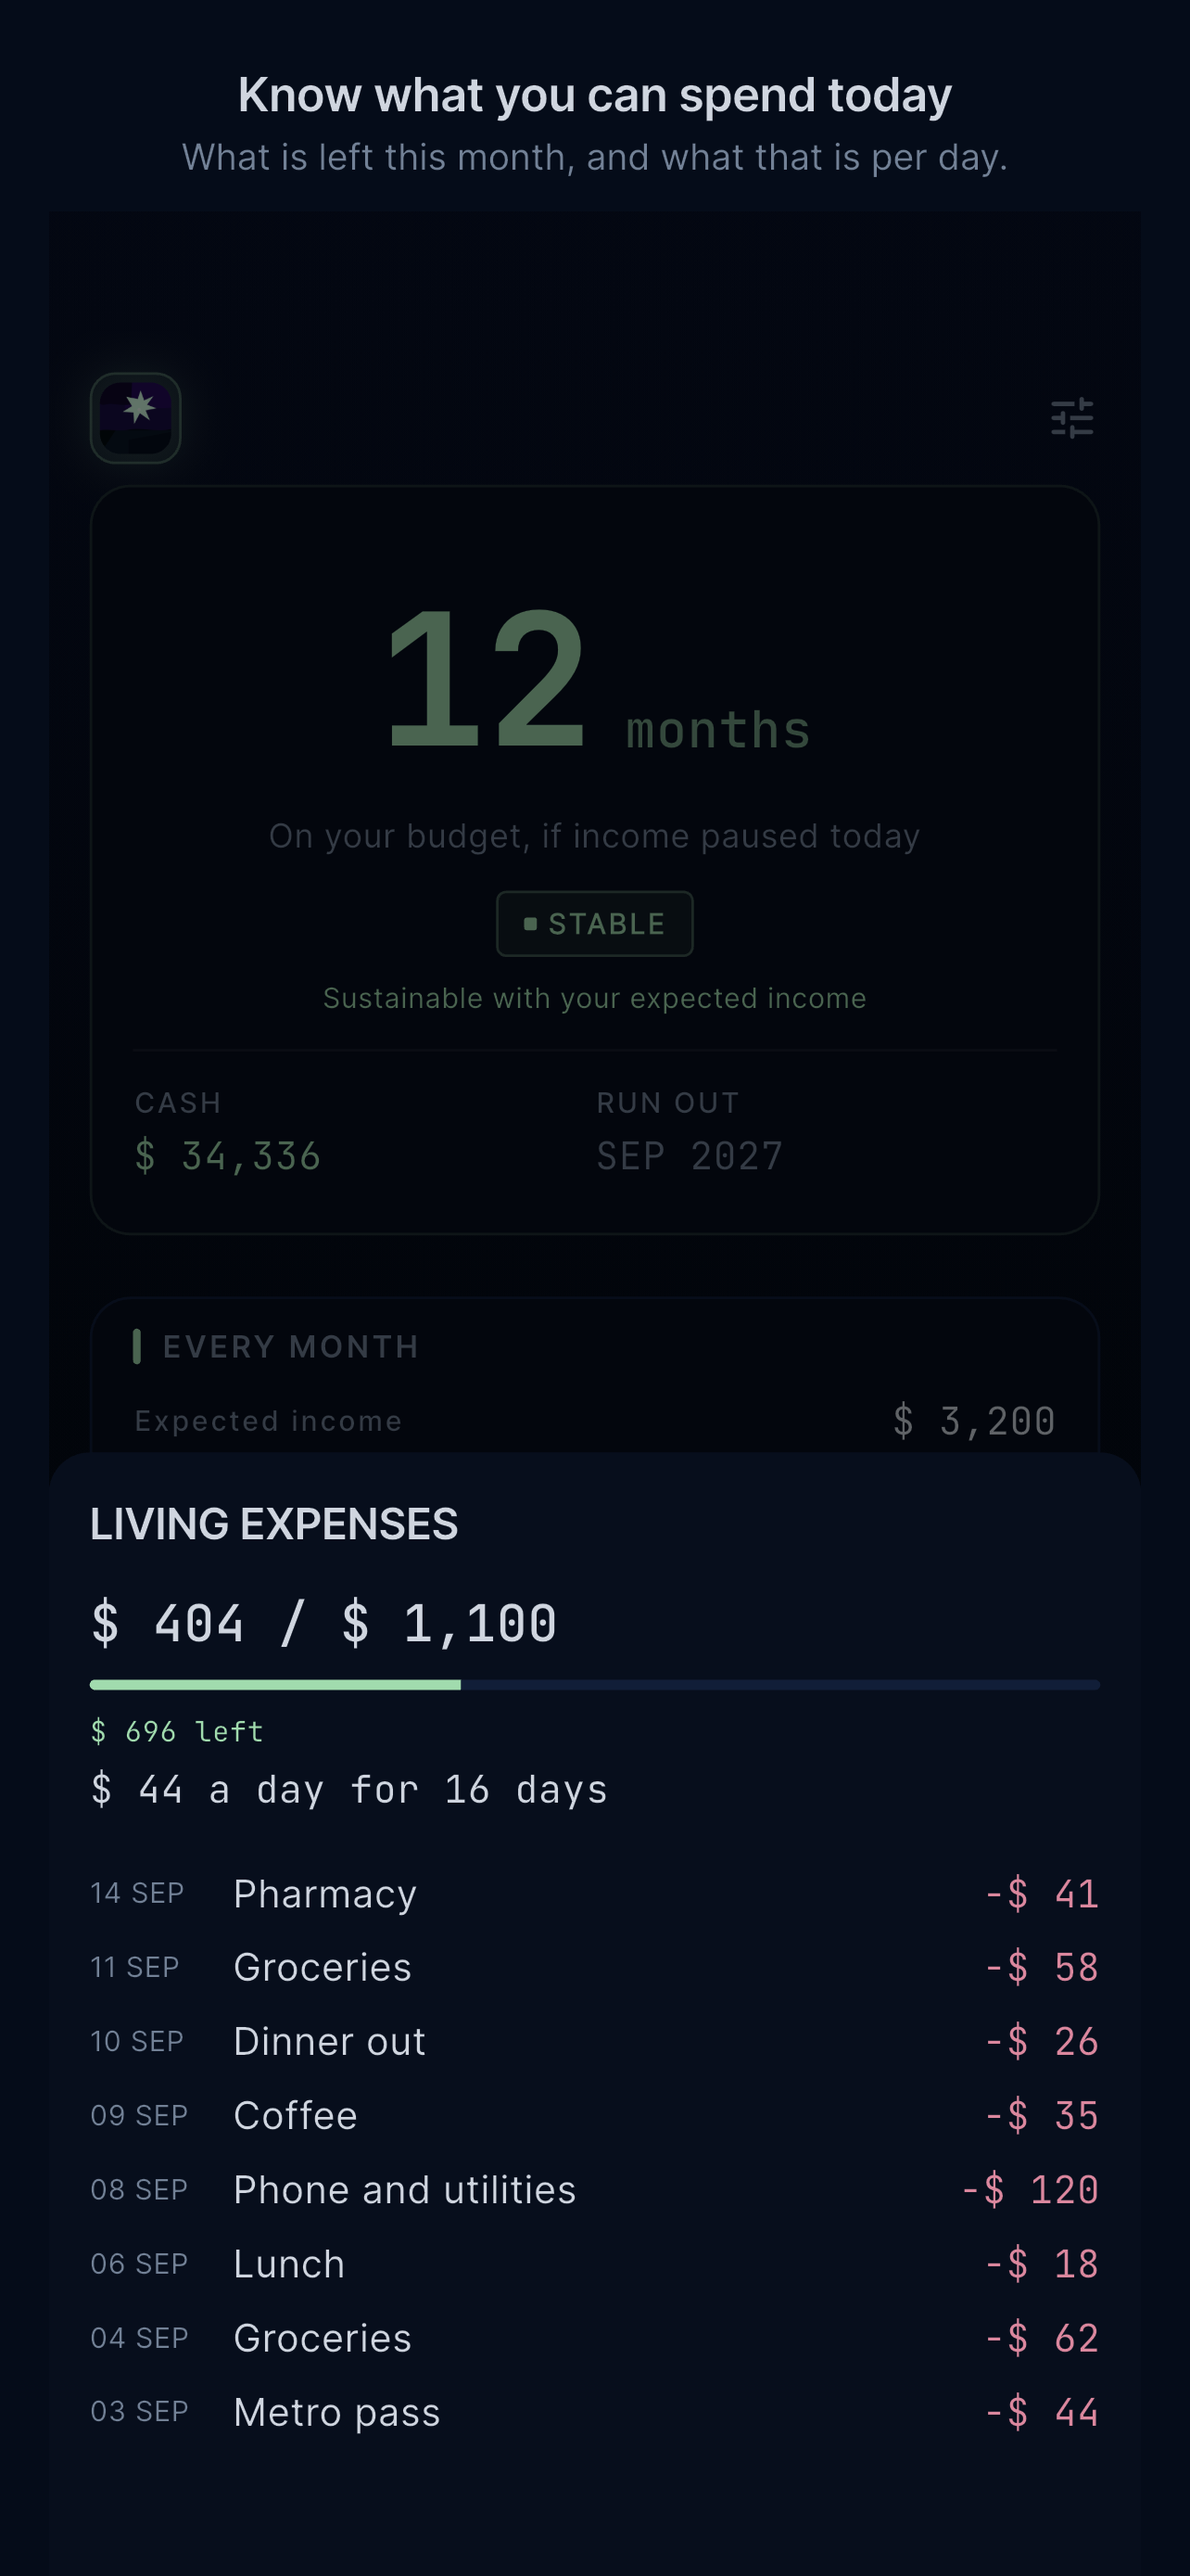
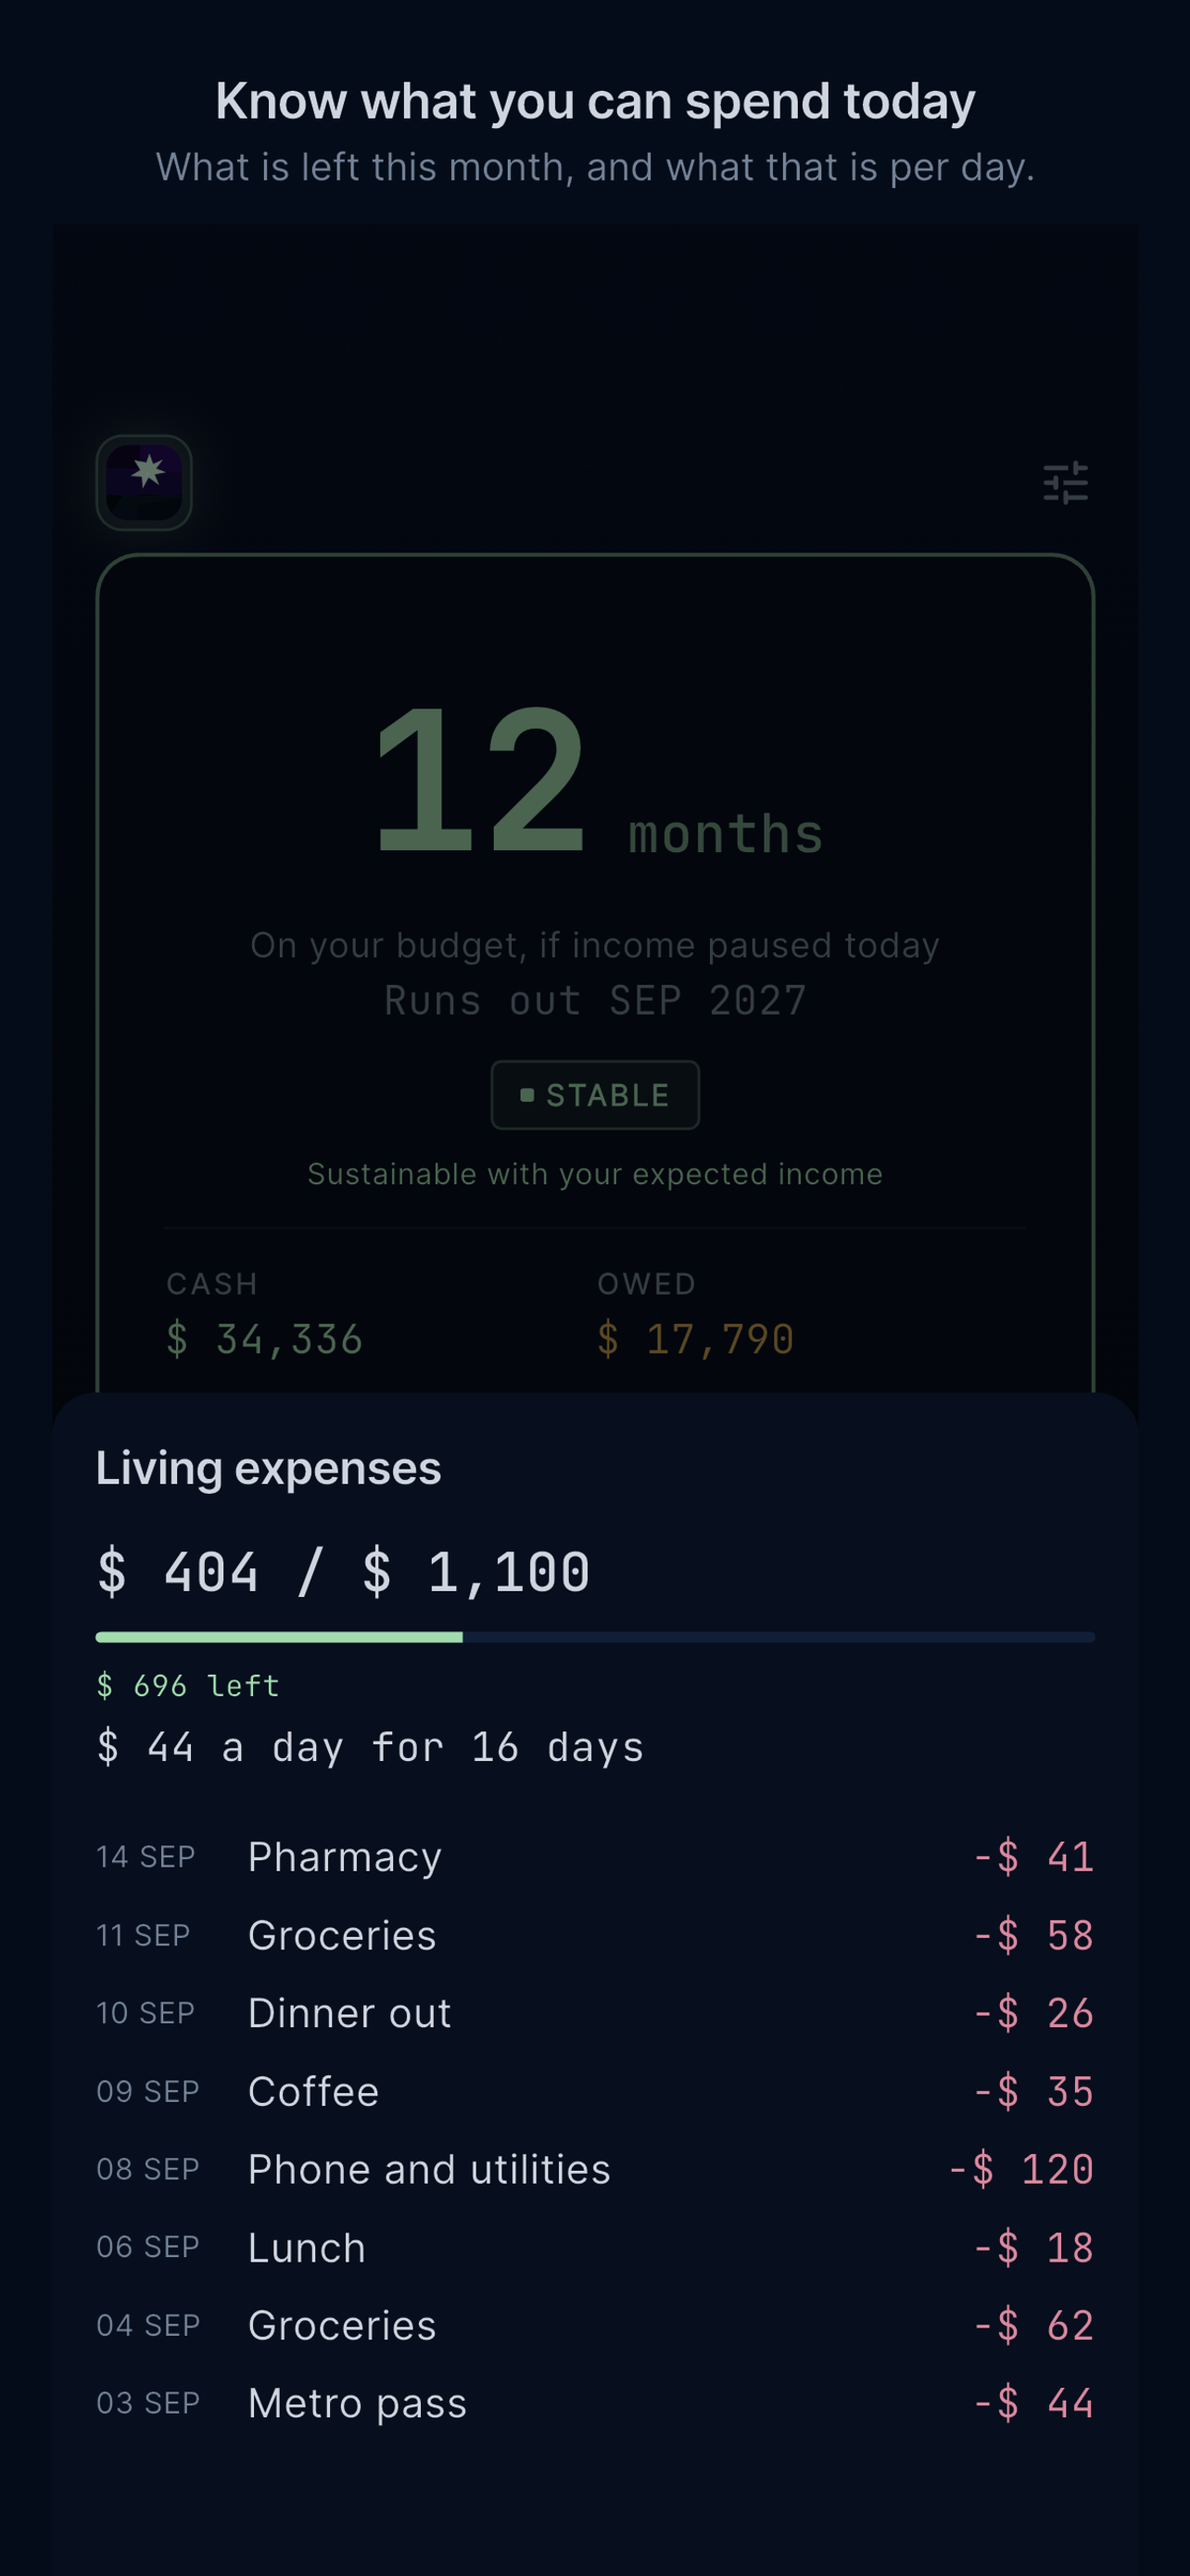
chore(marketing): fix the screenshot harness, and refresh everything from it
The harness had been broken for a while. It dismissed a bottom sheet by tapping
a ModalBarrier with warnIfMissed false, so when that tap missed nothing said
so: the sheet stayed over the nav, the run never reached the Log screen, and it
died on a missing add-fab. It pops the sheet through the Navigator now, and all
four frames capture again.

That is why the committed art was stale. It predated OWED beside CASH, and
still carried the em dash in "Spending uses up its budget" that the app itself
fixed. Every store screenshot is regenerated from the current build.

New: five Devpost gallery images at 1536 x 1024, which is the 3:2 Devpost asks
for, each around 100 KB. Four cover the screens; the fifth is the one argument
the others do not make, that borrowing raises the headline number and the app
shows what is owed beside it.

The Shipaton thumbnail now comes from the same captures as everything else
rather than being composed by hand, so the art cannot drift from the app again.

runway-devpost-1179x2556.png stays at the top level rather than being copied
into devpost/ as well. One file, one place.

Claude-Session: https://claude.ai/code/session_01LzA2Gog4pmDHuvfaKeYrQX

diff --git a/app/integration_test/screenshots_test.dart b/app/integration_test/screenshots_test.dart
@@ -86,7 +86,7 @@ void main() {
       ),
     );
     // Dismiss the sheet by tapping outside it.
-    await tester.tap(find.byType(ModalBarrier).last, warnIfMissed: false);
+    await _dismissSheet(tester);
     await pumpRealTime(tester, seconds: 2);
 
     await _tapNav(tester, 'LOG');
@@ -102,7 +102,7 @@ void main() {
         'Pick the occasion, type the amount.',
       ),
     );
-    await tester.tap(find.byType(ModalBarrier).last, warnIfMissed: false);
+    await _dismissSheet(tester);
     await pumpRealTime(tester, seconds: 2);
 
     await _tapNav(tester, 'PLAN');
@@ -124,6 +124,11 @@ void main() {
       ),
     );
   });
+}
+
+Future<void> _dismissSheet(WidgetTester tester) async {
+  tester.state<NavigatorState>(find.byType(Navigator).first).pop();
+  await pumpRealTime(tester, seconds: 1);
 }
 
 Future<void> _tapNav(WidgetTester tester, String label) async {
